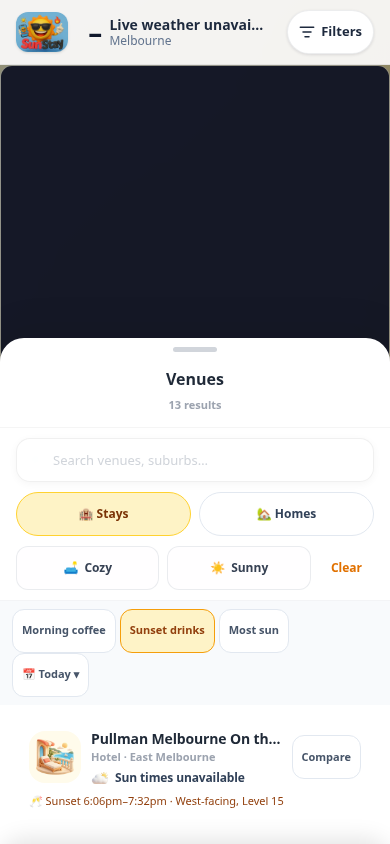
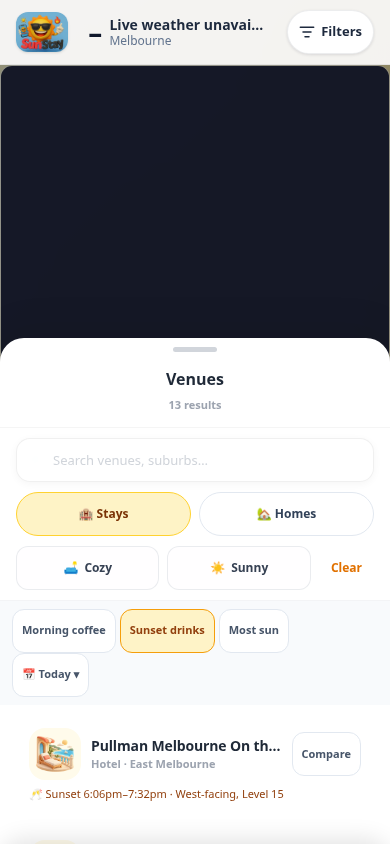
Fix stay comparison modal layering and sun badge details

Changed region(s): [[0.0615, 0.8626, 0.7385, 0.955], [0.7692, 0.8626, 0.8923, 0.9242]]

diff --git a/src/components/StayComparison.jsx b/src/components/StayComparison.jsx
@@ -1,8 +1,9 @@
 import React, { useEffect, useMemo, useRef } from 'react';
+import { createPortal } from 'react-dom';
 import { motion } from 'framer-motion';
 import { calculateMonthlySunSummary, formatGuestWindows } from '../utils/balconySunEngine.js';
 import { roomSunOptions, SUN_MOMENTS } from '../utils/stayRanking.js';
-export default function StayComparison({ venues, moment, onClose }) {
+export default function StayComparison({ venues, moment, onClose, returnFocusRef }) {
   const sheet = useRef(null);
   const months = useMemo(() => venues.map(venue => {
     if (!venue.bestRoom) return 'Unavailable';
@@ -11,10 +12,33 @@ export default function StayComparison({ venues, moment, onClose }) {
       .map(m => new Intl.DateTimeFormat('en', {month:'short',timeZone:'UTC'}).format(new Date(`${m.date}T12:00:00Z`))).join(', ') || 'No direct sun';
   }), [venues]);
   useEffect(() => {
-    const previous = document.activeElement;
-    sheet.current?.focus();
-    return () => previous?.focus();
-  }, []);
+    const previous = returnFocusRef?.current ?? document.activeElement;
+    const root = document.getElementById('root');
+    const wasInert = root?.inert;
+    const bodyOverflow = document.body.style.overflow;
+    const htmlOverflow = document.documentElement.style.overflow;
+    document.body.style.overflow = 'hidden';
+    document.documentElement.style.overflow = 'hidden';
+    if (root) root.inert = true;
+    sheet.current?.querySelector('button')?.focus({ preventScroll: true });
+    const handleKeyDown = event => {
+      if (event.key === 'Escape') { event.preventDefault(); onClose(); }
+      if (event.key === 'Tab') {
+        const controls = [...sheet.current.querySelectorAll('button, [tabindex="0"]')];
+        const first = controls[0], last = controls.at(-1);
+        if (event.shiftKey && document.activeElement === first) { event.preventDefault(); last?.focus(); }
+        else if (!event.shiftKey && document.activeElement === last) { event.preventDefault(); first?.focus(); }
+      }
+    };
+    document.addEventListener('keydown', handleKeyDown);
+    return () => {
+      document.removeEventListener('keydown', handleKeyDown);
+      document.body.style.overflow = bodyOverflow;
+      document.documentElement.style.overflow = htmlOverflow;
+      if (root) root.inert = wasInert;
+      if (previous instanceof HTMLElement && previous.isConnected) previous.focus({ preventScroll: true });
+    };
+  }, [onClose, returnFocusRef]);
   const rows = [
     ['Sun window', v => v.windowsText || 'No qualifying sun'],
     ['Total sun', v => v.daily ? `${v.daily.totalMinutes} min` : 'Unavailable'],
@@ -22,15 +46,12 @@ export default function StayComparison({ venues, moment, onClose }) {
     ['Sunset', v => v.daily ? formatGuestWindows(v.daily.sunsetDrinks.windows, v.daily.timeZone, v.daily.timeZone) || 'No sunset sun' : 'Unavailable'],
     ['Best months', (_, i) => months[i]],
   ];
-  return <motion.div className="ss-stay-overlay" initial={{opacity:0}} animate={{opacity:1}} onClick={onClose}>
-    <motion.section ref={sheet} tabIndex={-1} role="dialog" aria-modal="true" aria-labelledby="stay-compare-title" className="ss-stay-comparison" initial={{y:80}} animate={{y:0}} onClick={e => e.stopPropagation()} onKeyDown={e => {
-      if (e.key === 'Escape') onClose();
-      if (e.key === 'Tab') { e.preventDefault(); sheet.current.querySelector('button')?.focus(); }
-    }}>
+  return createPortal(<motion.div className="ss-stay-overlay" initial={{opacity:0}} animate={{opacity:1}} onClick={onClose}>
+    <motion.section ref={sheet} tabIndex={-1} role="dialog" aria-modal="true" aria-labelledby="stay-compare-title" className="ss-stay-comparison" initial={{y:80}} animate={{y:0}} onClick={e => e.stopPropagation()}>
       <header><h2 id="stay-compare-title">Compare · {SUN_MOMENTS[moment]}</h2><button aria-label="Close comparison" onClick={onClose}>✕</button></header>
-      <div className="ss-stay-table"><table><thead><tr><th scope="col">Best room</th>{venues.map(v => <th scope="col" key={v.id}>{v.venueName}<small>{v.bestRoom?.name || 'No matching room'}{v.bestRoom?.source === 'estimated' ? ' · Estimated' : ''}<br />{v.daily?.date}</small></th>)}</tr></thead>
+      <div className="ss-stay-table" tabIndex={0} role="region" aria-label="Room comparison, scroll horizontally to see all stays"><table><thead><tr><th scope="col">Best room</th>{venues.map(v => <th scope="col" key={v.id}>{v.venueName}<small>{v.bestRoom?.name || 'No matching room'}{v.bestRoom?.source === 'estimated' ? ' · Estimated' : ''}<br />{v.daily?.date}</small></th>)}</tr></thead>
         <tbody>{rows.map(([label, value]) => <tr key={label}><th scope="row">{label}</th>{venues.map((v, i) => <td key={v.id}>{value(v, i)}</td>)}</tr>)}</tbody></table></div>
       <p>Estimated from the sun’s path, not a weather forecast. Best months use representative days.</p>
     </motion.section>
-  </motion.div>;
+  </motion.div>, document.body);
 }

diff --git a/src/App.jsx b/src/App.jsx
@@ -232,12 +232,12 @@ const VenueListCard = memo(({ venue, isSelected, onVenueSelect, weather, stayMom
             <div className="ss-vlc-body">
                 <div className="ss-vlc-name">{venue.venueName}</div>
                 {subtitle ? <div className="ss-vlc-sub">{subtitle}</div> : null}
-                <div className="mt-1 flex min-w-0 items-center gap-1.5">
+                {!(stayMoment && isStay) && <div className="mt-1 flex min-w-0 items-center gap-1.5">
                     <ClayIcon name={sunStatus.icon} size={18} />
                     <span className="truncate text-[12px] font-semibold tracking-[-0.01em] text-slate-700">
                         {sunStatus.text}
                     </span>
-                </div>
+                </div>}
             </div>
             <div className="ss-vlc-right">
                 {stayMoment && isStay && <button className="ss-stay-compare-toggle" aria-pressed={compared} disabled={!compared && compareFull} onClick={e => { e.stopPropagation(); onCompare(venue.id); }}>Compare</button>}
@@ -623,10 +623,12 @@ const AppContent = () => {
     const [stayDate, setStayDate] = useState(null);
     const [comparedIds, setComparedIds] = useState([]);
     const [compareOpen, setCompareOpen] = useState(false);
+    const compareTriggerRef = useRef(null);
+    const closeStayComparison = useCallback(() => setCompareOpen(false), []);
     const toggleCompare = useCallback(id => setComparedIds(ids => ids.includes(id) ? ids.filter(v => v !== id) : ids.length < 3 ? [...ids, id] : ids), []);
     const rankedStays = useMemo(() => staysActive ? listVenues.flatMap(venue => rankStays([venue], { moment: stayMoment, date: /^\d{4}-/.test(stayDate ?? '') ? stayDate : quickStayDate(stayDate || 'today', new Date(), venue.timeZone ?? venue.timezone ?? 'Australia/Melbourne') })).sort(compareStayRank) : [], [staysActive, listVenues, stayMoment, stayDate]);
     const comparisonVenues = useMemo(() => rankedStays.filter(v => comparedIds.includes(v.id)), [rankedStays, comparedIds]);
-    const stayPicker = staysActive ? <StaySunPicker moment={stayMoment} date={stayDate} onMoment={setStayMoment} onDate={setStayDate} compareCount={comparisonVenues.length} onCompare={() => setCompareOpen(true)} /> : null;
+    const stayPicker = staysActive ? <StaySunPicker moment={stayMoment} date={stayDate} onMoment={setStayMoment} onDate={setStayDate} compareCount={comparisonVenues.length} onCompare={event => { compareTriggerRef.current = event.currentTarget; setCompareOpen(true); }} /> : null;
     const sortedVenues = useMemo(
         () => staysActive ? rankedStays : sortVenuesBySunstayScore(listVenues, (venue) => venueDisplayScore(venue, {
             byId: microById,
@@ -1289,7 +1291,7 @@ const AppContent = () => {
                     )}
                 </AnimatePresence>
 
-                {staysActive && compareOpen && comparisonVenues.length > 0 && <StayComparison venues={comparisonVenues} moment={stayMoment} onClose={() => setCompareOpen(false)} />}
+                {staysActive && compareOpen && comparisonVenues.length > 0 && <StayComparison venues={comparisonVenues} moment={stayMoment} onClose={closeStayComparison} returnFocusRef={compareTriggerRef} />}
                 <ChatWidget
                     isOpen={isChatOpen}
                     onClose={closeChat}

diff --git a/src/index.css b/src/index.css
@@ -6196,7 +6196,7 @@ body,
   position: fixed;
   inset: 0;
   background: rgba(0, 0, 0, 0.4);
-  z-index: 9000;
+  z-index: var(--z-sheet-backdrop);
 }
 
 .ss-filter-sheet {
@@ -6204,7 +6204,7 @@ body,
   bottom: 0;
   left: 0;
   right: 0;
-  z-index: 9001;
+  z-index: var(--z-sheet);
   background: #fff;
   border-radius: 24px 24px 0 0;
   padding: 20px 20px calc(28px + env(safe-area-inset-bottom, 20px));
@@ -6926,6 +6926,9 @@ body,
   will-change: opacity;
 }
 
+/* Shared filter and comparison sheet layers, above the venue list (300). */
+:root { --z-sheet-backdrop: 9000; --z-sheet: 9001; }
+
 /* Stay sun moments */
 .ss-stay-picker { padding: 8px 12px; background: #f8fafc; flex-shrink: 0; }
 .ss-stay-chips { display: flex; flex-wrap: wrap; gap: 4px; }
@@ -6935,11 +6938,11 @@ body,
 .ss-stay-badge { margin-top: 5px; font-size: 11px; color: #92400e; white-space: nowrap; overflow: hidden; text-overflow: ellipsis; }
 .ss-stay-badge--empty { color: #64748b; }
 .ss-stay-compare-toggle:disabled { opacity: .45; }
-.ss-stay-overlay { position: fixed; inset: 0; background: #0006; z-index: 150; display: flex; align-items: flex-end; justify-content: center; }
-.ss-stay-comparison { width: 100%; max-width: 800px; max-height: 85dvh; overflow: auto; background: #fff; border-radius: 24px 24px 0 0; padding: 16px 16px calc(20px + env(safe-area-inset-bottom)); color: #334155; }
+.ss-stay-overlay { position: fixed; inset: 0; background: #0006; z-index: var(--z-sheet-backdrop); overscroll-behavior: contain; display: flex; align-items: flex-end; justify-content: center; }
+.ss-stay-comparison { position: relative; z-index: var(--z-sheet); box-shadow: 0 -8px 40px rgba(0, 0, 0, 0.12); overscroll-behavior: contain; width: 100%; max-width: 800px; max-height: 85dvh; overflow: auto; background: #fff; border-radius: 24px 24px 0 0; padding: 16px 16px calc(20px + env(safe-area-inset-bottom)); color: #334155; }
 .ss-stay-comparison header { display: flex; align-items: center; justify-content: space-between; font-weight: 800; }
 .ss-stay-comparison header button { min-height: 44px; min-width: 44px; }
-.ss-stay-table { overflow-x: auto; margin-top: 12px; }
+.ss-stay-table { overflow-x: auto; overscroll-behavior: contain; margin-top: 12px; }
 .ss-stay-table table { border-collapse: collapse; font-size: 12px; width: 100%; }
 .ss-stay-table th, .ss-stay-table td { min-width: 130px; padding: 12px 8px; border-bottom: 1px solid #e2e8f0; text-align: left; vertical-align: top; }
 .ss-stay-table small { display: block; font-weight: 400; margin-top: 6px; }

diff --git a/src/utils/stayRanking.test.js b/src/utils/stayRanking.test.js
@@ -1,6 +1,6 @@
 import test from 'node:test';
 import assert from 'node:assert/strict';
-import { rankStays, quickStayDate } from './stayRanking.js';
+import { rankStays, quickStayDate, stayMomentBadge } from './stayRanking.js';
 import { calculateBalconySunDay, venueDayBounds } from './balconySunEngine.js';
 const room = (orientation, name = orientation) => ({ id: name, name, orientation, floorLevel: 12 });
 const stay = (name, rooms) => ({ id: name, venueName: name, typeCategory: 'Hotel', lat: -37.81, lng: 144.96, roomTypes: rooms });
@@ -44,4 +44,15 @@ test('absolute dates respect venue timezone and invalid dates are rejected', () 
   assert.equal(result.daily.date,'2026-10-03');
   assert.throws(()=>rankStays([],{date:'2026-02-30'}),RangeError);
   assert.throws(()=>rankStays([],{moment:'invalid',date}),RangeError);
+});
+
+test('badge uses floorLevel only and omits missing levels instead of using height in metres', () => {
+  const venue = { bestRoom: { orientation: 'W', floorHeight: 42 }, windowsText: '6:02–7:32pm' };
+  assert.equal(stayMomentBadge(venue, 'sunset'), '🥂 Sunset 6:02–7:32pm · West-facing');
+  for (const floorLevel of [null, undefined, '']) {
+    assert.ok(!stayMomentBadge({ ...venue, bestRoom: { ...venue.bestRoom, floorLevel } }, 'sunset').includes('Level'));
+  }
+  for (const floorLevel of [0, 12]) {
+    assert.ok(stayMomentBadge({ ...venue, bestRoom: { ...venue.bestRoom, floorLevel } }, 'sunset').endsWith(`, Level ${floorLevel}`));
+  }
 });

diff --git a/src/utils/stayRanking.js b/src/utils/stayRanking.js
@@ -51,7 +51,7 @@ export function stayMomentBadge(venue, moment) {
   const label = moment === 'sunset' ? 'Sunset' : moment === 'coffee' ? 'Morning' : 'Sun';
   if (!venue.bestRoom) return `No ${moment === 'sunset' ? 'sunset' : moment === 'coffee' ? 'morning' : 'direct'} sun this day`;
   const room = venue.bestRoom;
-  return `${moment === 'sunset' ? '🥂' : moment === 'coffee' ? '☕' : '☀'} ${label} ${venue.windowsText} · ${({ W: 'West', E: 'East', N: 'North', S: 'South' })[facingLabel(room.orientation)] ?? facingLabel(room.orientation)}-facing, Level ${room.floorLevel ?? room.floorHeight ?? 'unknown'}${room.source === 'estimated' ? ' · Estimated' : ''}`;
+  return `${moment === 'sunset' ? '🥂' : moment === 'coffee' ? '☕' : '☀'} ${label} ${venue.windowsText} · ${({ W: 'West', E: 'East', N: 'North', S: 'South' })[facingLabel(room.orientation)] ?? facingLabel(room.orientation)}-facing${room.floorLevel != null && room.floorLevel !== '' ? `, Level ${room.floorLevel}` : ''}${room.source === 'estimated' ? ' · Estimated' : ''}`;
 }
 
 export function compareStayRank(a, b) { return compare({ ...a, name: a.venueName ?? '' }, { ...b, name: b.venueName ?? '' }); }
